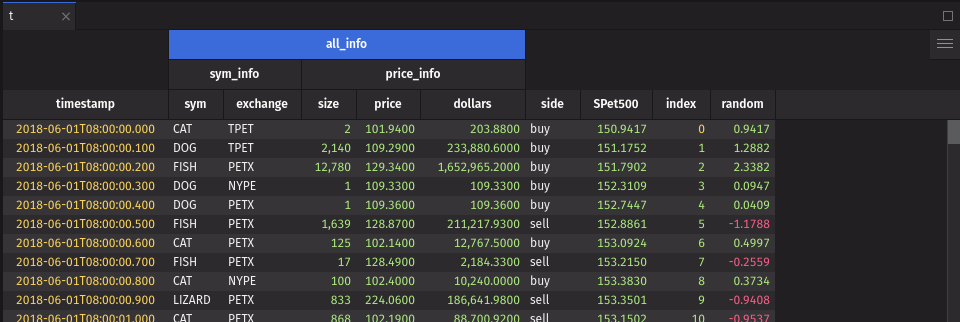
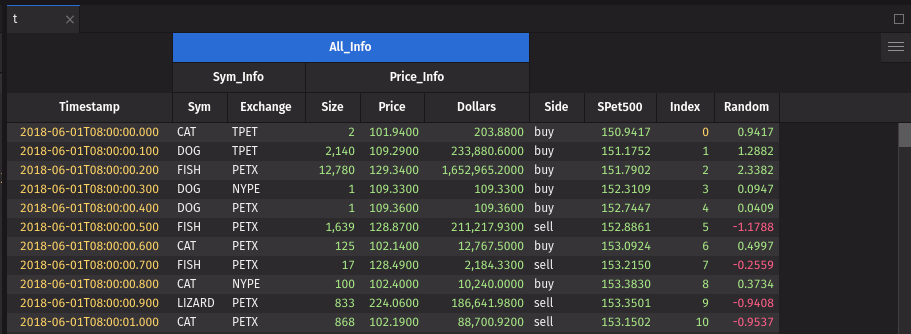
Address review comments

diff --git a/plugins/ui/docs/components/table.md b/plugins/ui/docs/components/table.md
@@ -19,7 +19,9 @@ t = ui.table(_t)
 
 ## Events
 
-You can listen for different user events on a `ui.table`. There is both a `press` and `double_press` event for `row`, `cell`, and `column`. These events typically correspond to a click or double click on the table. The event payloads include table data related to the event. Note there is not a row index in event data because the row index is not a safe way to reference a row between the client and server since the user could have manipulated the table resulting in a different client order.
+You can listen for different user events on a `ui.table`. There is both a `press` and `double_press` event for `row`, `cell`, and `column`. These events typically correspond to a click or double click on the table. The event payloads include table data related to the event. For `row` and `column` events, the corresponding data within the viewport will be sent to the event handler. The viewport is typically the visible area &plusmn; a window equal to the visible area (e.g., if rows 5-10 are visible, rows 0-15 will be in the viewport).
+
+Note there is not a row index in event data because the row index is not a safe way to reference a row between the client and server since the user could have manipulated the table resulting in a different client order.
 
 A `double_press` event will be preceded by 2 `press` events with the same data.
 
@@ -115,7 +117,7 @@ from deephaven import ui
 import deephaven.plot.express as dx
 
 def create_context_menu(data):
-    if data["column_name"] == "sym":
+    if data["column_name"] == "Sym":
         return {
             "title": f"Print {data['value']}",
             "action": lambda d: print(d['value'])
@@ -142,10 +144,10 @@ import deephaven.plot.express as dx
 
 t = ui.table(
     dx.data.stocks(),
-    frozen_columns=["sym", "exchange"],
-    front_columns=["price"],
-    back_columns=["index"],
-    hidden_columns=["random"]
+    frozen_columns=["Sym", "Exchange"],
+    front_columns=["Price"],
+    back_columns=["Index"],
+    hidden_columns=["Random"]
 )
 ```
 
@@ -175,16 +177,16 @@ t = ui.table(
     dx.data.stocks(),
     column_groups=[
         {
-            "name": "sym_info",
-            "children": ["sym", "exchange"],
+            "name": "Sym_Info",
+            "children": ["Sym", "Exchange"],
         },
         {
-            "name": "price_info",
-            "children": ["size", "price", "dollars"]
+            "name": "Price_Info",
+            "children": ["Size", "Price", "Dollars"]
         },
         {
-            "name": "all_info",
-            "children": ["sym_info", "price_info"],
+            "name": "All_Info",
+            "children": ["Sym_Info", "Price_Info"],
             "color": "#3b6bda"
         }
     ]
@@ -192,6 +194,47 @@ t = ui.table(
 ```
 
 ![Example of column groups](../_assets/table_column_groups.png)
+
+## Quick Filters
+
+Quick filters are an easy way to filter the table and show the user what filters are currently applied. These filters are applied by the client, so users may change the filters without affecting other users. Unlike a `where` statement to filter a table on the server, quick filters can be easily changed by the user.
+
+Quick filters may be preferred if you have multiple servers or workers hosting your data. If, for example, the table is on another Deephaven instance, performing a `where` operation on the table may require copying all of the data from the host server into the server running Deephaven UI. With a quick filter, the filter can instead be applied directly on the server hosting the table.
+
+Quick filters can be added to the table using the `quick_filters` prop. The `quick_filters` prop takes a dictionary where the key is the column and the value is the filter to apply.
+
+The quick filter bar can be expanded by default with the `show_quick_filters` prop.
+
+```py
+from deephaven import ui
+import deephaven.plot.express as dx
+
+t = ui.table(
+    dx.data.stocks(),
+    show_quick_filters=True,
+    quick_filters={
+        "Sym": "CAT",
+        "Exchange": "TPET",
+        "Price": ">=100"
+    }
+)
+```
+
+![Example of quick filters](../_assets/table_quick_filter.png)
+
+## Reverse
+
+The table can be displayed in reverse order using the `reverse` prop. The reverse will be performed on the client and indicated to the user via a bar under the column headers. Users can disable the reverse with the column header context menu or via shortcut.
+
+```py
+from deephaven import ui
+import deephaven.plot.express as dx
+
+t = ui.table(
+    dx.data.stocks(),
+    reverse=True
+)
+```
 
 ## API Reference
 
